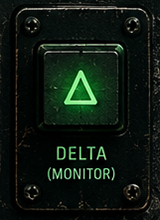
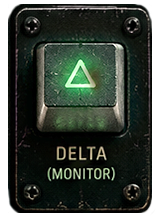
37

diff --git a/WebUI/style.css b/WebUI/style.css
@@ -8,7 +8,7 @@
   --traceSoftClip: #ffb347;
   --traceHardClip: #ff4d4d;
   --thresholdLine: #e0d9c0;
-  --textAmber:     #33f303;
+  --textAmber:     #25b900;
   --ledOff:        #1c2a1c;
 }
 
@@ -143,7 +143,7 @@ html, body {
   text-align: center;
   font-size: 12px;
   font-weight: bold;
-  color: rgba(232,195,122,0.8);
+  color: rgb(146 146 146 / 69%);
   pointer-events: none;
 }
 
@@ -187,11 +187,13 @@ canvas {
   cursor: pointer;
 }
 .barBtn:hover { filter: brightness(1.15); }
+
 .barBtn.active {
-  background: var(--traceHardClip);
-  color: #fff;
-  border-color: var(--traceHardClip);
+    background: #410000;
+    color: #ffbf73;
+    border-color: #750000;
 }
+
 #bpmLabel {
   flex: 1;
   text-align: right;
@@ -225,7 +227,7 @@ canvas {
   width: 22px;
   writing-mode: vertical-lr;
   direction: rtl;
-  accent-color: var(--traceSoftClip);
+  accent-color: #6ea80c;
   cursor: ns-resize;
 }
 #zoomValueLabel {
